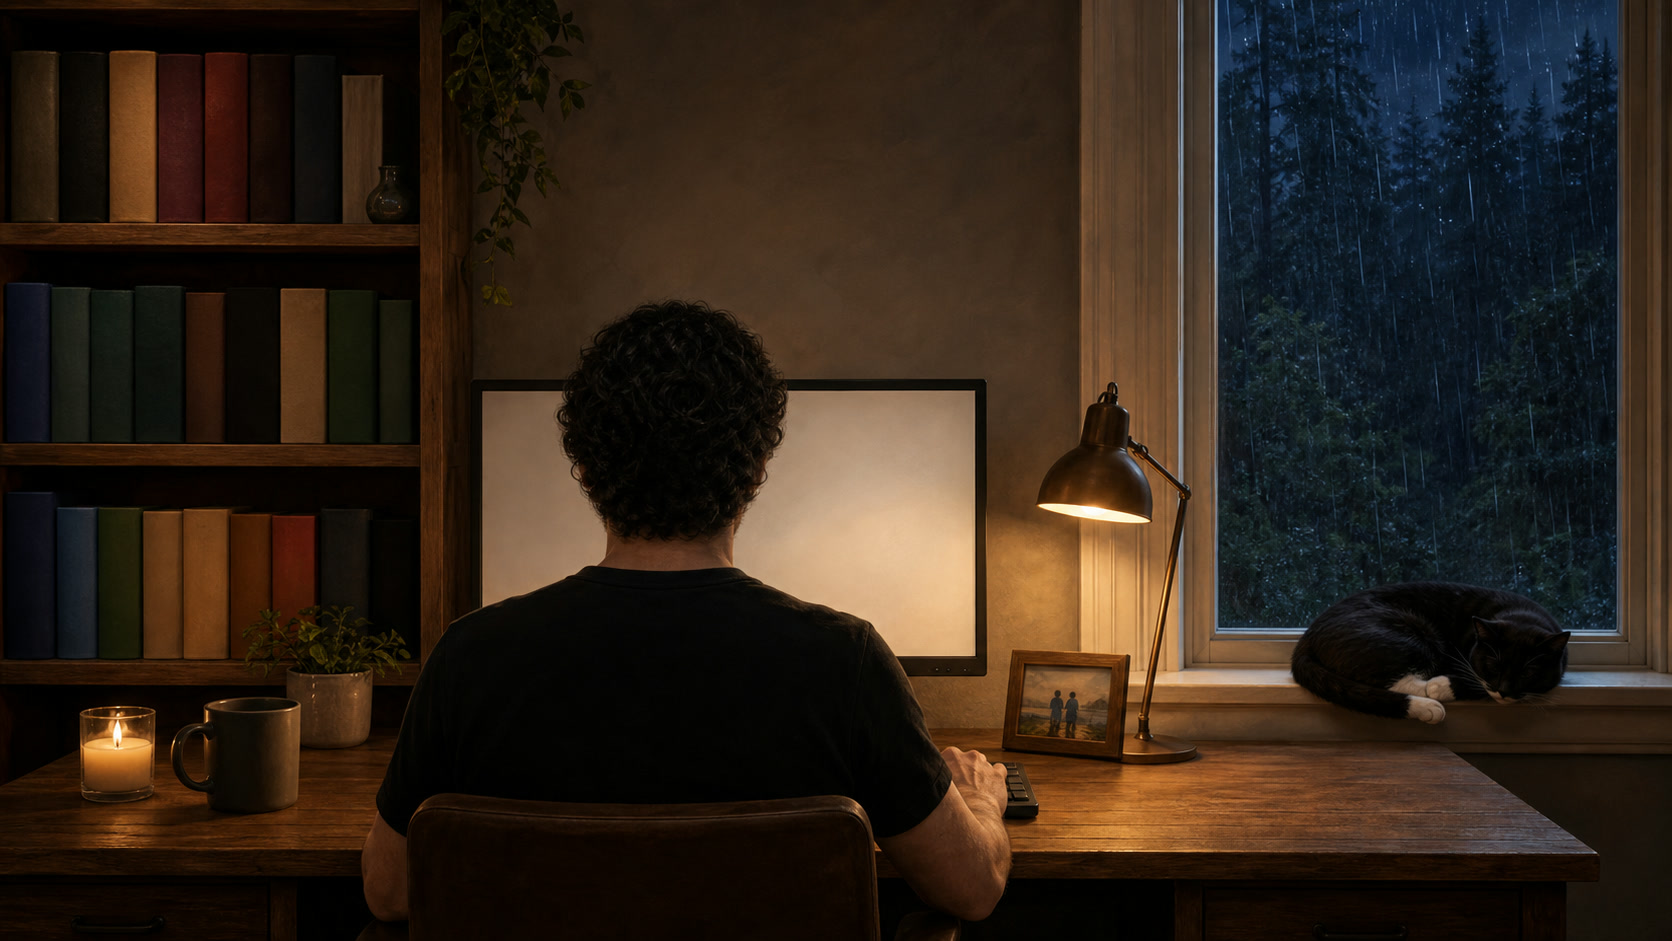
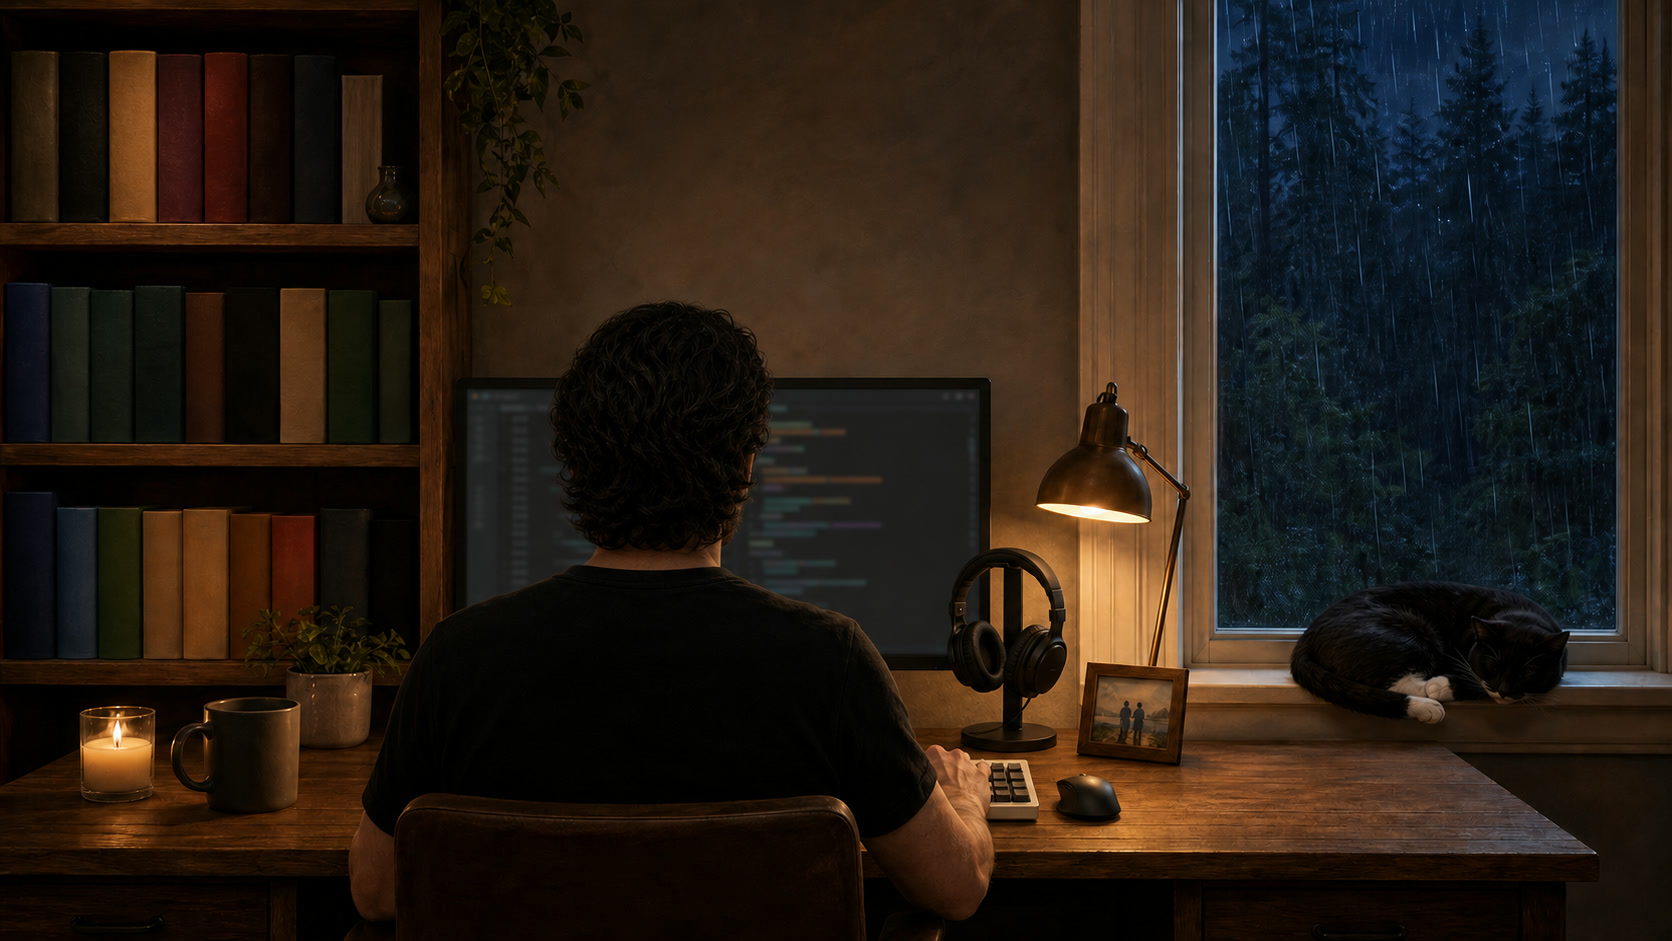
Regenerate hero with swept-back hair and real desk gear; tag the setup
- New master still: longer wavy hair pushed back (from Ben's photos),
  Varmilo Minilo75 Pro, MX Master 4, Bose QC Ultra on a stand, code on
  the monitor
- Gear hotspots link to each product (src/data/setup.ts)
- Drop the hover outline box; labels alone are enough
- scripts/room-video.mjs: fal.ai Seedance image-to-video with the still as
  both first and last frame, then an ffmpeg crossfade into a seamless loop.
  Reads FAL_KEY from gitignored .env.agents

Claude-Session: https://claude.ai/code/session_01KtvNxKfwvRjvrTDbHDqDKU

diff --git a/src/components/room/Room.tsx b/src/components/room/Room.tsx
@@ -5,6 +5,7 @@ import Panel from './Panel';
 import WorkPanel from './WorkPanel';
 import BooksPanel from './BooksPanel';
 import { SCENE_ASPECT, OVERSCAN, media, regions, Rect } from './scene';
+import { setup } from '@/data/setup';
 
 type Open = 'work' | 'books' | null;
 
@@ -201,6 +202,18 @@ const Room = () => {
         <button className="hotspot" style={pct(regions.monitor)} onClick={() => setOpen('work')}>
           <span className="hotspot__label">what I&apos;m working on</span>
         </button>
+        {setup.map((g) => (
+          <a
+            key={g.id}
+            className="hotspot hotspot--gear"
+            style={pct(regions[g.id])}
+            href={g.url}
+            target="_blank"
+            rel="noopener noreferrer"
+          >
+            <span className="hotspot__label">{g.name}</span>
+          </a>
+        ))}
       </div>
 
       <span className="room__name">Ben Adamsky</span>

diff --git a/src/components/room/scene.ts b/src/components/room/scene.ts
@@ -16,7 +16,16 @@ export const media = {
 };
 
 export const regions: Record<
-  'window' | 'cat' | 'candle' | 'lamp' | 'shelf' | 'monitor' | 'photo',
+  | 'window'
+  | 'cat'
+  | 'candle'
+  | 'lamp'
+  | 'shelf'
+  | 'monitor'
+  | 'photo'
+  | 'headphones'
+  | 'mouse'
+  | 'keyboard',
   Rect
 > = {
   window: { x: 72.8, y: 0, w: 22.8, h: 69 },
@@ -24,6 +33,9 @@ export const regions: Record<
   candle: { x: 4.5, y: 74, w: 5, h: 11 },
   lamp: { x: 62, y: 46, w: 6.5, h: 10 },
   shelf: { x: 0.5, y: 1, w: 24.5, h: 70 },
-  monitor: { x: 28, y: 40, w: 31, h: 31 },
-  photo: { x: 60, y: 69, w: 7.5, h: 10 }
+  monitor: { x: 27.5, y: 39.5, w: 29, h: 31 },
+  photo: { x: 64.3, y: 70.5, w: 6.6, h: 9.5 },
+  headphones: { x: 56.5, y: 58, w: 7.5, h: 21 },
+  mouse: { x: 62.3, y: 81, w: 4.8, h: 7 },
+  keyboard: { x: 57.5, y: 80, w: 4.8, h: 7 }
 };

diff --git a/src/app/globals.css b/src/app/globals.css
@@ -103,18 +103,6 @@ body {
   border-radius: 6px;
   outline-offset: 6px;
 }
-.hotspot::after {
-  content: '';
-  position: absolute;
-  inset: 0;
-  border-radius: 6px;
-  box-shadow: inset 0 0 0 1px rgba(243, 233, 216, 0);
-  transition: box-shadow 400ms ease;
-}
-.hotspot:hover::after,
-.hotspot:focus-visible::after {
-  box-shadow: inset 0 0 0 1px rgba(243, 233, 216, 0.35);
-}
 .hotspot__label {
   position: absolute;
   left: 50%;
@@ -132,6 +120,14 @@ body {
 .hotspot:focus-visible .hotspot__label {
   opacity: 1;
   transform: translate(-50%, -12px);
+}
+
+.hotspot--gear .hotspot__label {
+  font-size: 14px;
+  color: var(--ink-dim);
+}
+.hotspot--gear:hover .hotspot__label {
+  color: var(--ink);
 }
 
 /* chrome */

diff --git a/src/data/setup.ts b/src/data/setup.ts
@@ -1,0 +1,27 @@
+export interface Gear {
+  id: 'headphones' | 'mouse' | 'keyboard';
+  label: string;
+  name: string;
+  url: string;
+}
+
+export const setup: Gear[] = [
+  {
+    id: 'headphones',
+    label: 'headphones',
+    name: 'Bose QuietComfort Ultra',
+    url: 'https://www.bose.com/p/headphones/bose-quietcomfort-ultra-headphones/QCUH-HEADPHONEARN.html'
+  },
+  {
+    id: 'mouse',
+    label: 'mouse',
+    name: 'Logitech MX Master 4 for Mac',
+    url: 'https://www.logitech.com/en-us/shop/p/mx-master-4-for-mac'
+  },
+  {
+    id: 'keyboard',
+    label: 'keyboard',
+    name: 'Varmilo Minilo75 Pro',
+    url: 'https://varmilo.com/products/minilo75-pro'
+  }
+];

diff --git a/AGENTS.md b/AGENTS.md
@@ -7,3 +7,11 @@ This version has breaking changes — APIs, conventions, and file structure may 
 This block is written and re-added by `next dev` — verify at `node_modules/next/dist/server/lib/generate-agent-files.js`. Removing it from a diff only re-creates the uncommitted change; committing it with your work keeps the tree clean.
 
 <!-- END:nextjs-agent-rules -->
+
+# Project notes
+
+- `.env.agents` (gitignored) holds keys for agents to use during development,
+  e.g. `FAL_KEY` for video generation. Never import it from app code or ship it.
+- Scene assets are generated with the Codex CLI image tool (`~/.local/bin/codex exec`),
+  masters live outside the repo; `public/room.jpg` is the shipped still.
+- Hotspot geometry is in `src/components/room/scene.ts`, in percent of the image.
